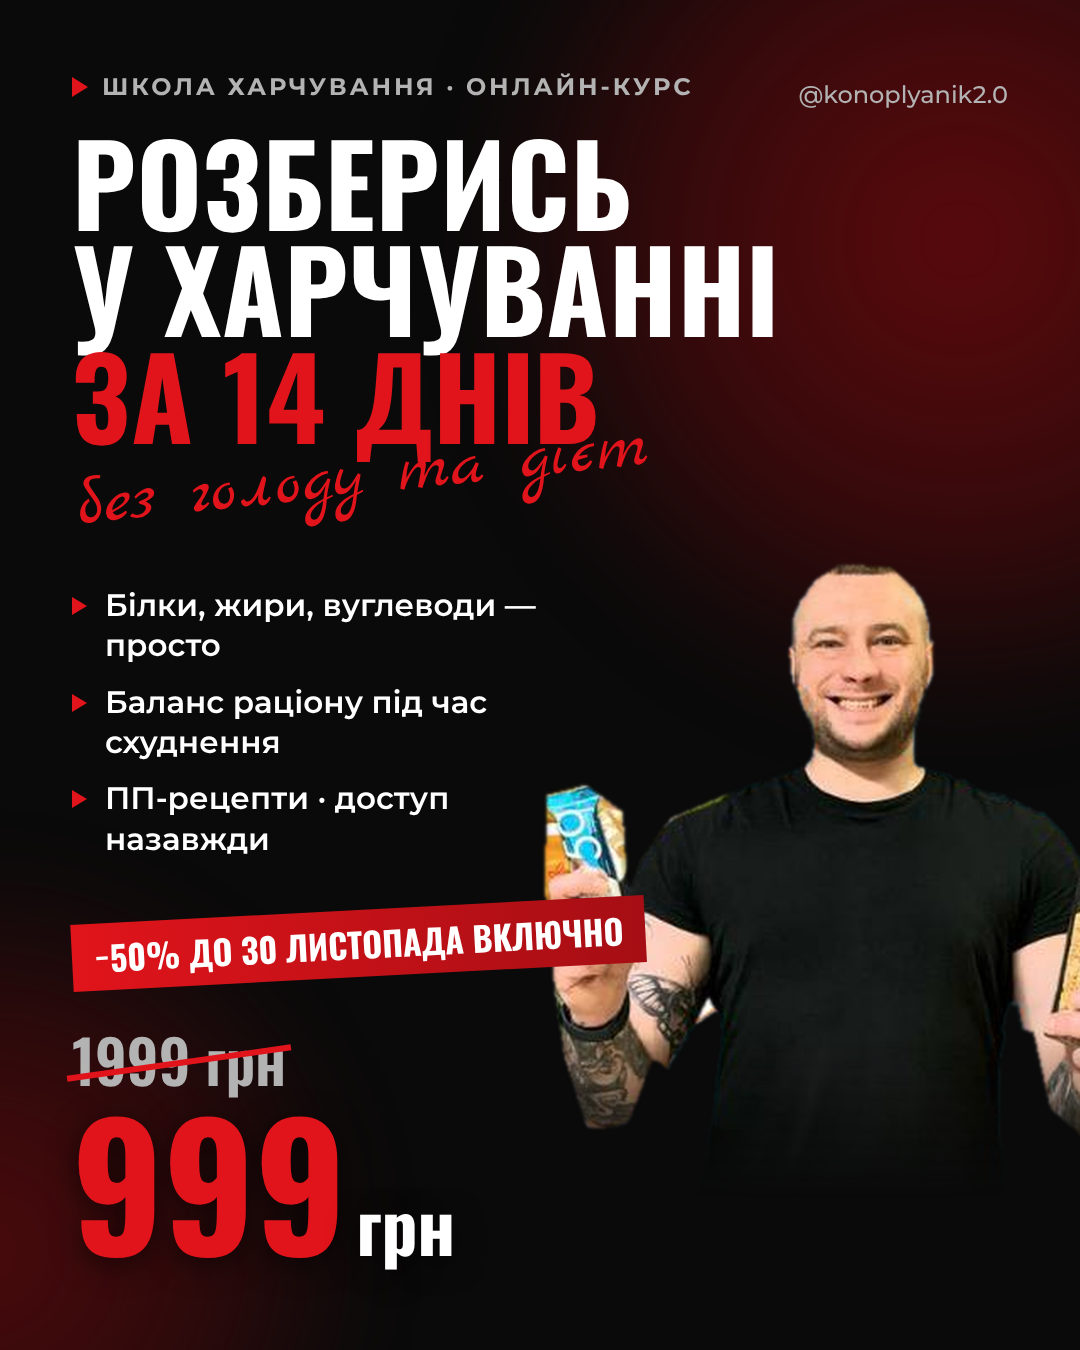
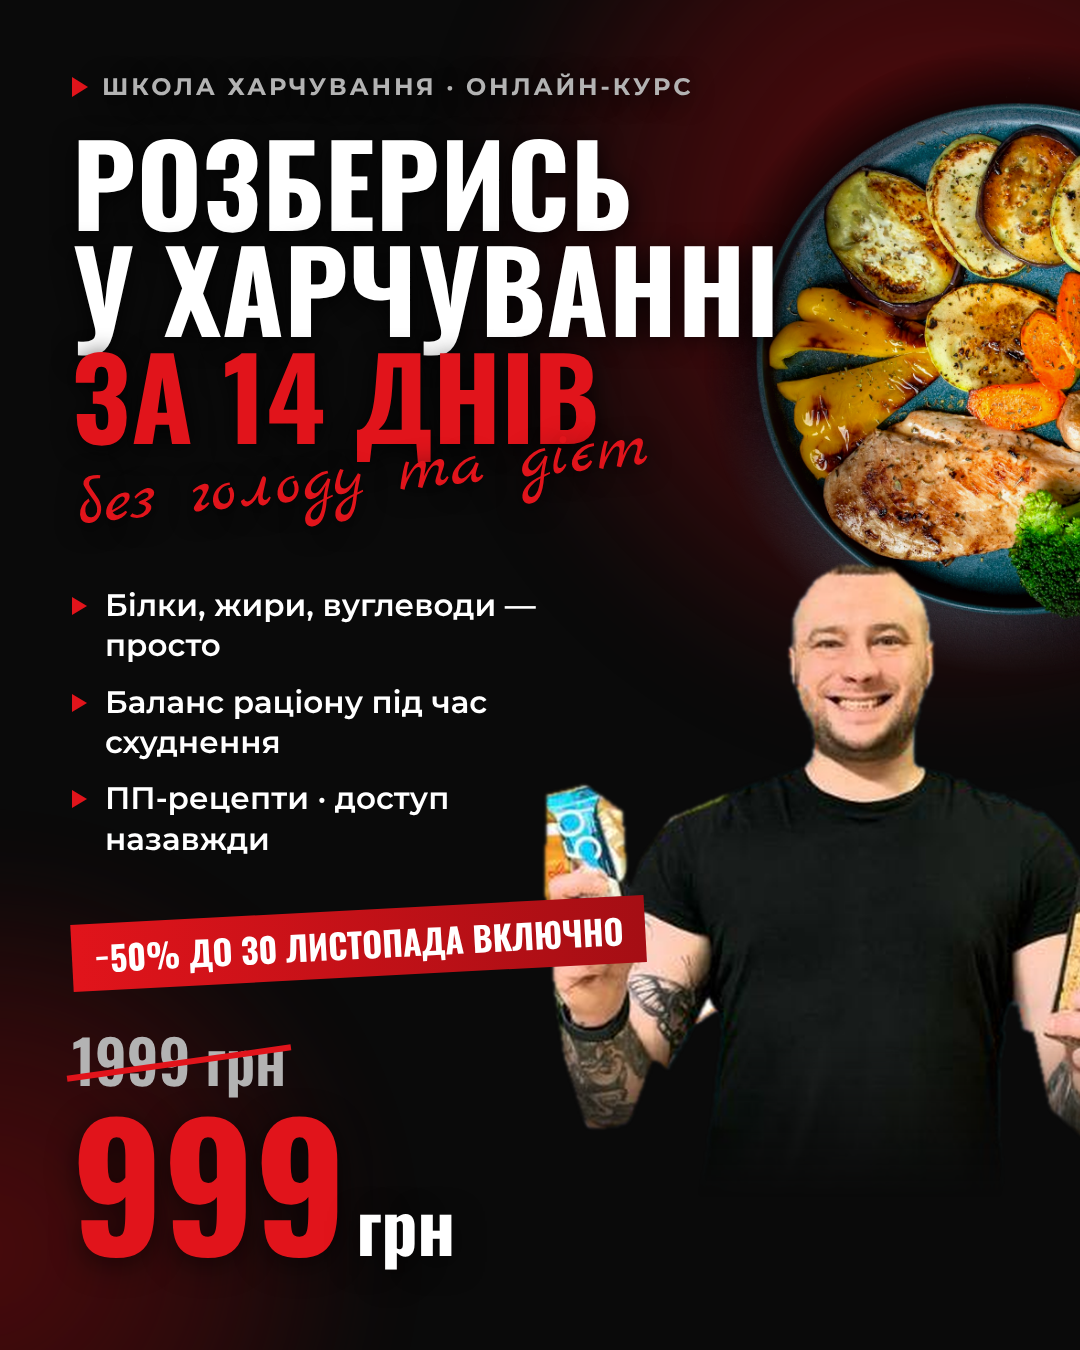
fitnes-trener-bogdan: add Unsplash food photo to school promo creatives
Claude-Session: https://claude.ai/code/session_01AWhP1rcQ4RM4eLbmxttza6

Changed region(s): [[0.6417, 0.0311, 1.0, 0.4978], [0.5806, 0.2178, 0.6111, 0.2489], [0.0611, 0.2489, 0.0917, 0.28]]

diff --git a/klienty/fitnes-trener-bogdan/vizual/2026-11-22-shkola-akciya.html b/klienty/fitnes-trener-bogdan/vizual/2026-11-22-shkola-akciya.html
@@ -10,6 +10,7 @@ body{background:#333}
 .label i{width:0;height:0;border-left:16px solid var(--red);border-top:10px solid transparent;border-bottom:10px solid transparent}
 .h{font-family:Oswald,sans-serif;font-weight:700;text-transform:uppercase;line-height:.95;letter-spacing:.005em}
 .h .r{color:var(--red)}
+.h,.script,.label{position:relative;z-index:2;text-shadow:0 4px 24px rgba(0,0,0,.85)}
 .script{font-family:'Marck Script',cursive;color:var(--red);transform:rotate(-6deg);transform-origin:left center;white-space:nowrap}
 .list{list-style:none;display:flex;flex-direction:column}
 .list li{display:flex;gap:18px;align-items:flex-start;font-weight:600;line-height:1.3}
@@ -24,12 +25,14 @@ body{background:#333}
 .cta{position:absolute;display:flex;align-items:center;justify-content:center;gap:16px;background:var(--red);color:#fff;font-weight:800;text-transform:uppercase;letter-spacing:.06em}
 .nick{position:absolute;font-weight:500;color:var(--muted)}
 .bgword{position:absolute;font-family:Oswald,sans-serif;font-weight:700;color:#fff;opacity:.05;line-height:.85;text-transform:uppercase;white-space:nowrap}
+.plate{position:absolute;border-radius:50%;-webkit-mask-image:radial-gradient(circle at 50% 50%,#000 52%,transparent 70%);mask-image:radial-gradient(circle at 50% 50%,#000 52%,transparent 70%);filter:saturate(1.1) contrast(1.05)}
 </style></head><body>
 
 <!-- STORIES / REELS 1080x1920 -->
 <div class="slide" id="story" style="width:1080px;height:1920px">
   <div class="glow" style="width:1100px;height:1100px;right:-420px;top:-300px"></div>
   <div class="glow" style="width:900px;height:900px;left:-450px;top:950px;opacity:.75"></div>
+  <img class="plate" src="unsplash-tarelka-5lFfglgMaao.jpg" style="width:700px;height:700px;object-fit:cover;right:-250px;top:170px;opacity:.95">
   <img class="photo" src="bogdan-vyrezka.png" style="width:640px;right:-90px;top:800px;-webkit-mask-image:linear-gradient(to bottom,#000 70%,transparent 96%)">
   <div style="position:absolute;left:72px;right:72px;top:240px;bottom:330px;display:flex;flex-direction:column">
     <div class="label"><i></i>Школа харчування · онлайн-курс</div>
@@ -54,6 +57,7 @@ body{background:#333}
 <div class="slide" id="feed" style="width:1080px;height:1350px;margin-top:40px">
   <div class="glow" style="width:1000px;height:1000px;right:-380px;top:-260px"></div>
   <div class="glow" style="width:800px;height:800px;left:-420px;bottom:-300px;opacity:.8"></div>
+  <img class="plate" src="unsplash-tarelka-5lFfglgMaao.jpg" style="width:640px;height:640px;object-fit:cover;right:-260px;top:40px;opacity:.95">
   <div style="position:absolute;left:72px;top:72px;right:72px">
     <div class="label"><i></i>Школа харчування · онлайн-курс</div>
     <div class="h" style="font-size:112px;margin-top:26px">Розберись<br>у харчуванні<br><span class="r">за 14 днів</span></div>
@@ -70,6 +74,6 @@ body{background:#333}
     <div style="margin-top:22px"><span class="old" style="font-size:60px">1999 грн</span></div>
     <div class="new" style="font-size:170px">999<small>грн</small></div>
   </div>
-  <div class="nick" style="right:72px;top:80px;font-size:24px">@konoplyanik2.0</div>
+  
 </div>
 </body></html>

diff --git a/klienty/fitnes-trener-bogdan/teksty/2026-11-22-reklama-shkola-akciya.md b/klienty/fitnes-trener-bogdan/teksty/2026-11-22-reklama-shkola-akciya.md
@@ -14,6 +14,8 @@
 
 Исходник для правок: `2026-11-22-shkola-akciya.html`.
 
+Фото тарелки: Unsplash, автор Narek Petrosyan, https://unsplash.com/photos/a-plate-of-food-5lFfglgMaao (файл `vizual/unsplash-tarelka-5lFfglgMaao.jpg`). Лицензия Unsplash разрешает бесплатно использовать фото в рекламе без подписи автора. Нельзя только продавать само фото без изменений.
+
 На креативе:
 - надзаголовок «Школа харчування · онлайн-курс»;
 - заголовок «Розберись у харчуванні за 14 днів» + «без голоду та дієт»;
